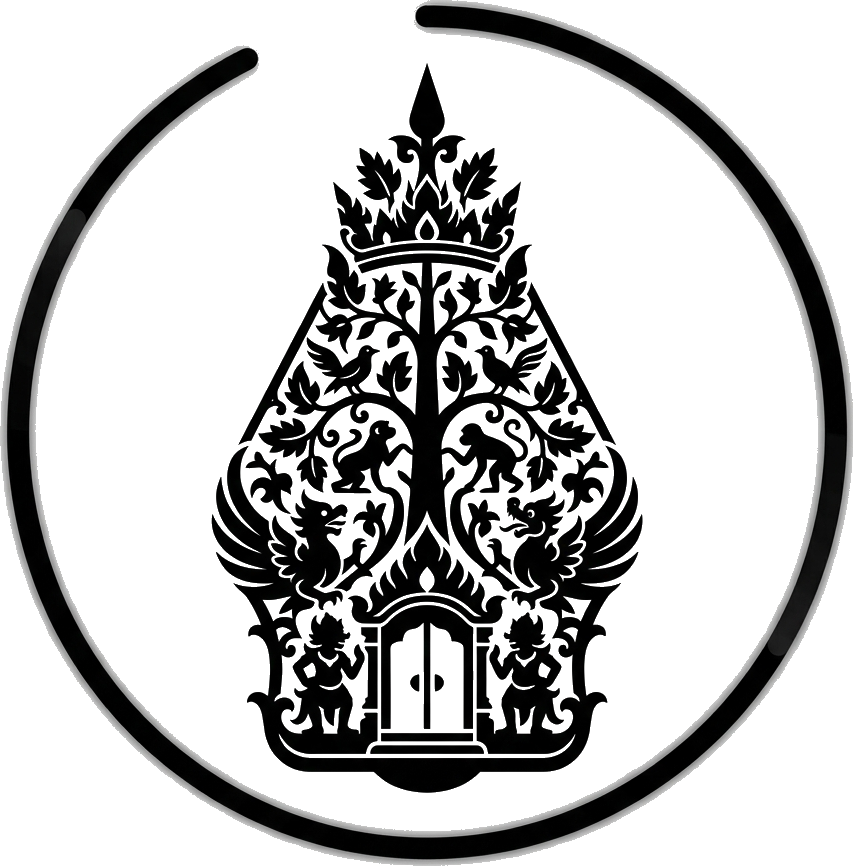
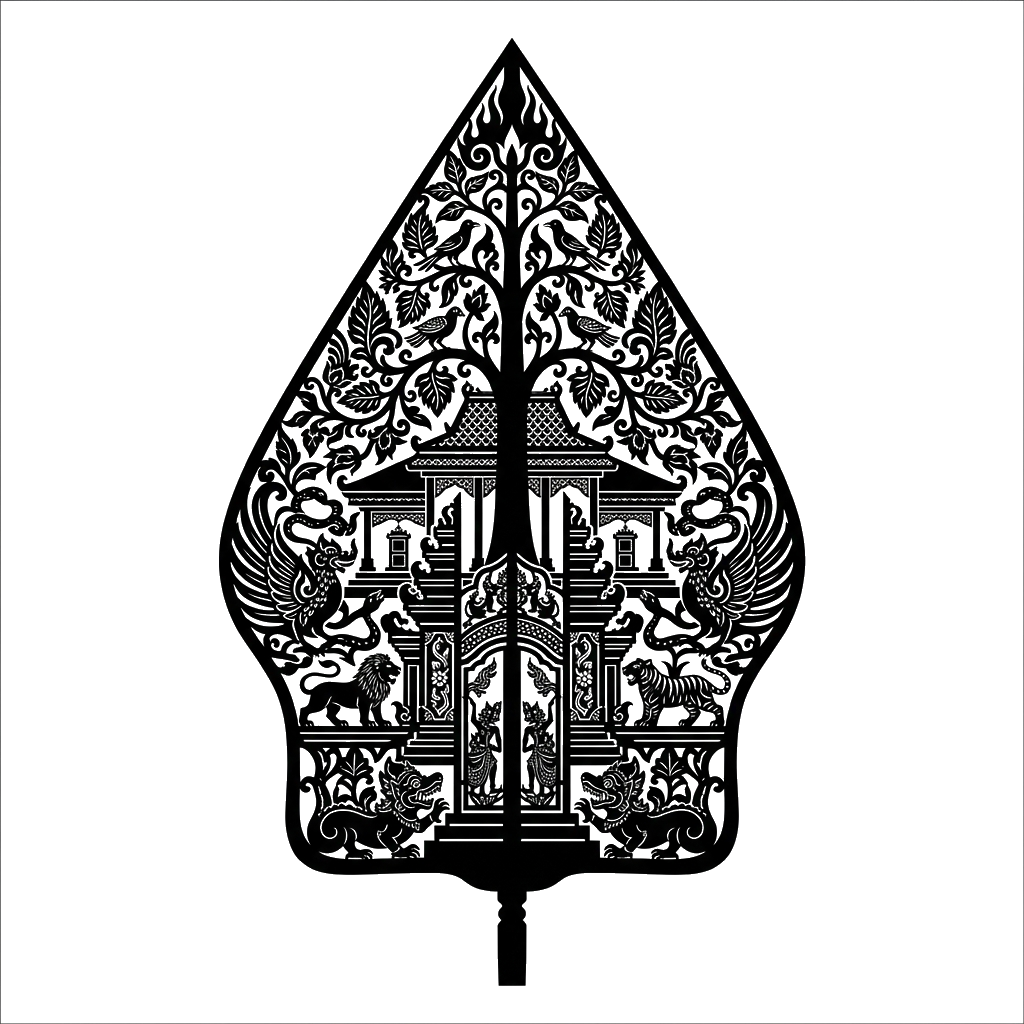
UI: Replace gunungan watermark with a clean silhouette, removing the background circle and floral ornament

diff --git a/src/App.jsx b/src/App.jsx
@@ -1686,7 +1686,7 @@ const RobotGuide = React.lazy(() => import('./RobotGuide.jsx'));
 
                     {/* ANIMASI WAYANG KULIT GLOBAL (DASHBOARD) */}
                     <div className="fixed top-[12vh] md:top-[15vh] left-1/2 -translate-x-1/2 z-0 pointer-events-none opacity-10 dark:opacity-5 transition-all duration-1000 no-print">
-                        <img src="./gunungan_transparent.png?v=3" alt="Gunungan" className="w-[60vw] md:w-[45vw] lg:w-[35vw] xl:w-[450px] h-auto object-contain dark:invert" />
+                        <img src="./gunungan_transparent.png?v=4" alt="Gunungan" className="w-[60vw] md:w-[45vw] lg:w-[35vw] xl:w-[450px] h-auto object-contain dark:invert" />
                     </div>
                     <div className="fixed bottom-0 -left-4 sm:left-0 md:left-4 xl:left-8 z-0 pointer-events-none opacity-15 dark:opacity-10 transition-all duration-1000 no-print scale-x-[-1]">
                         <img src="./wayang_transparent.png?v=3" alt="Wayang Kulit Kiri" className="w-[45vw] md:w-[35vw] lg:w-[30vw] xl:w-[450px] h-auto max-h-[45vh] md:max-h-[60vh] xl:max-h-[75vh] object-contain object-bottom animate-wayang dark:invert" />
@@ -2163,7 +2163,7 @@ const RobotGuide = React.lazy(() => import('./RobotGuide.jsx'));
 
                     {/* ANIMASI WAYANG KULIT GLOBAL (LANDING) */}
                     <div className="fixed top-[12vh] md:top-[15vh] left-1/2 -translate-x-1/2 z-0 pointer-events-none opacity-10 dark:opacity-5 transition-all duration-1000 no-print">
-                        <img src="./gunungan_transparent.png?v=3" alt="Gunungan" className="w-[60vw] md:w-[45vw] lg:w-[35vw] xl:w-[450px] h-auto object-contain dark:invert" />
+                        <img src="./gunungan_transparent.png?v=4" alt="Gunungan" className="w-[60vw] md:w-[45vw] lg:w-[35vw] xl:w-[450px] h-auto object-contain dark:invert" />
                     </div>
                     <div className="fixed bottom-0 -left-4 sm:left-0 md:left-4 xl:left-8 z-0 pointer-events-none opacity-15 dark:opacity-10 transition-all duration-1000 no-print scale-x-[-1]">
                         <img src="./wayang_transparent.png?v=3" alt="Wayang Kulit Kiri" className="w-[45vw] md:w-[35vw] lg:w-[30vw] xl:w-[450px] h-auto max-h-[45vh] md:max-h-[60vh] xl:max-h-[75vh] object-contain object-bottom animate-wayang dark:invert" />
